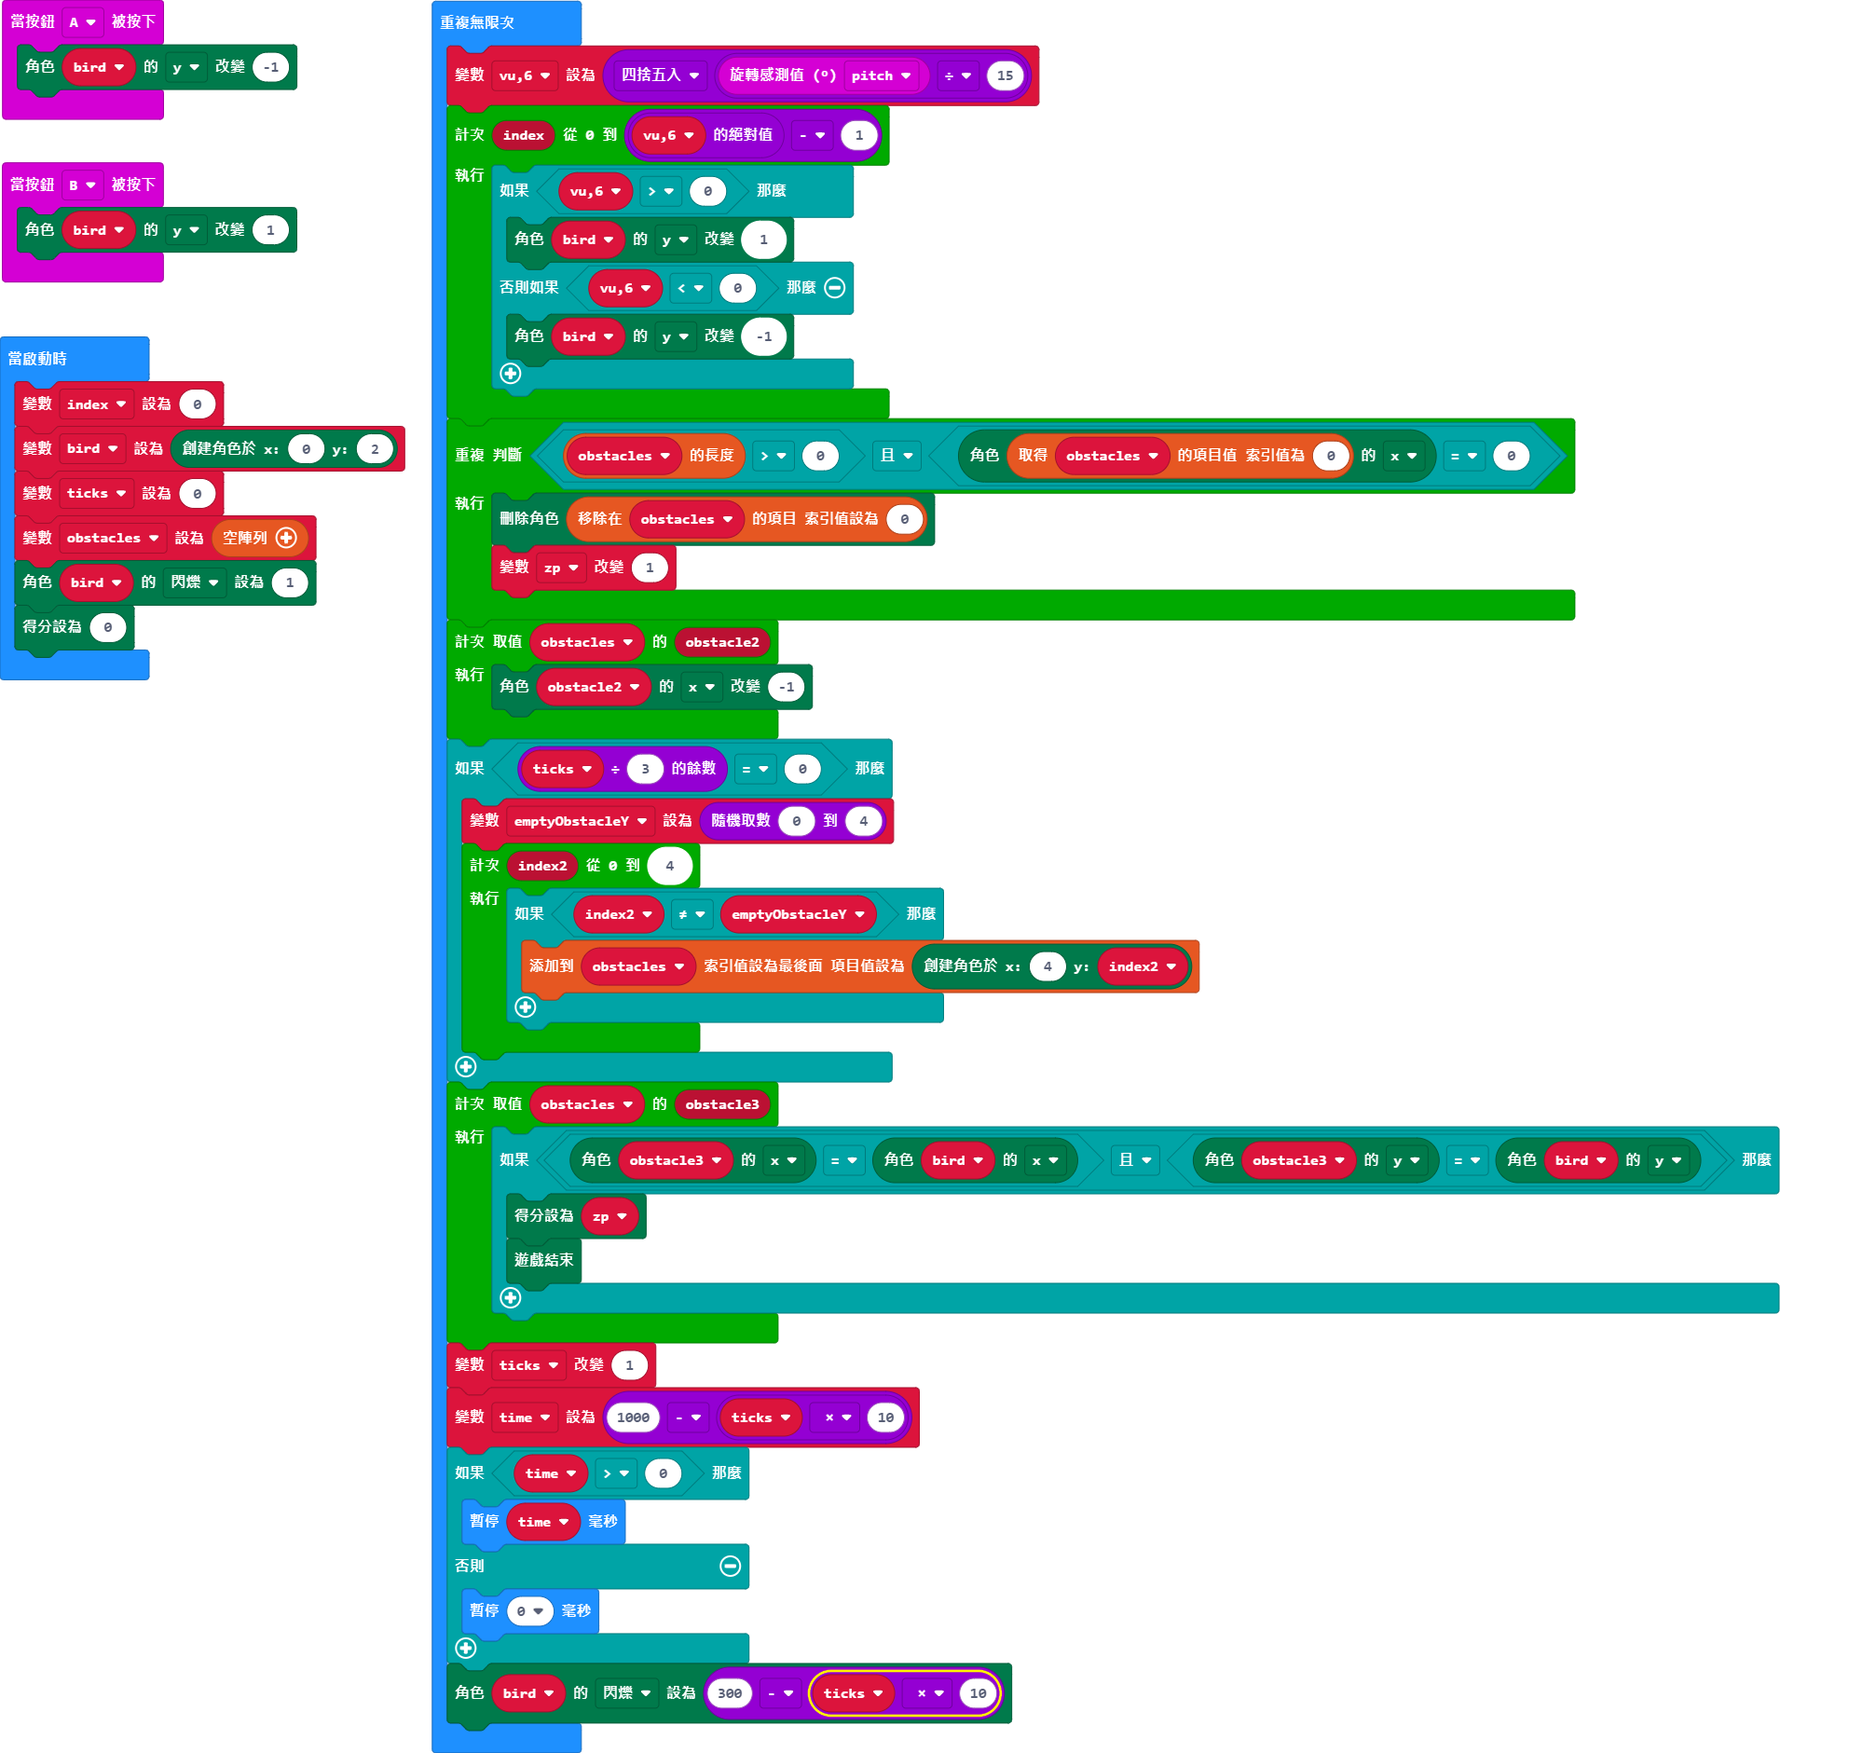
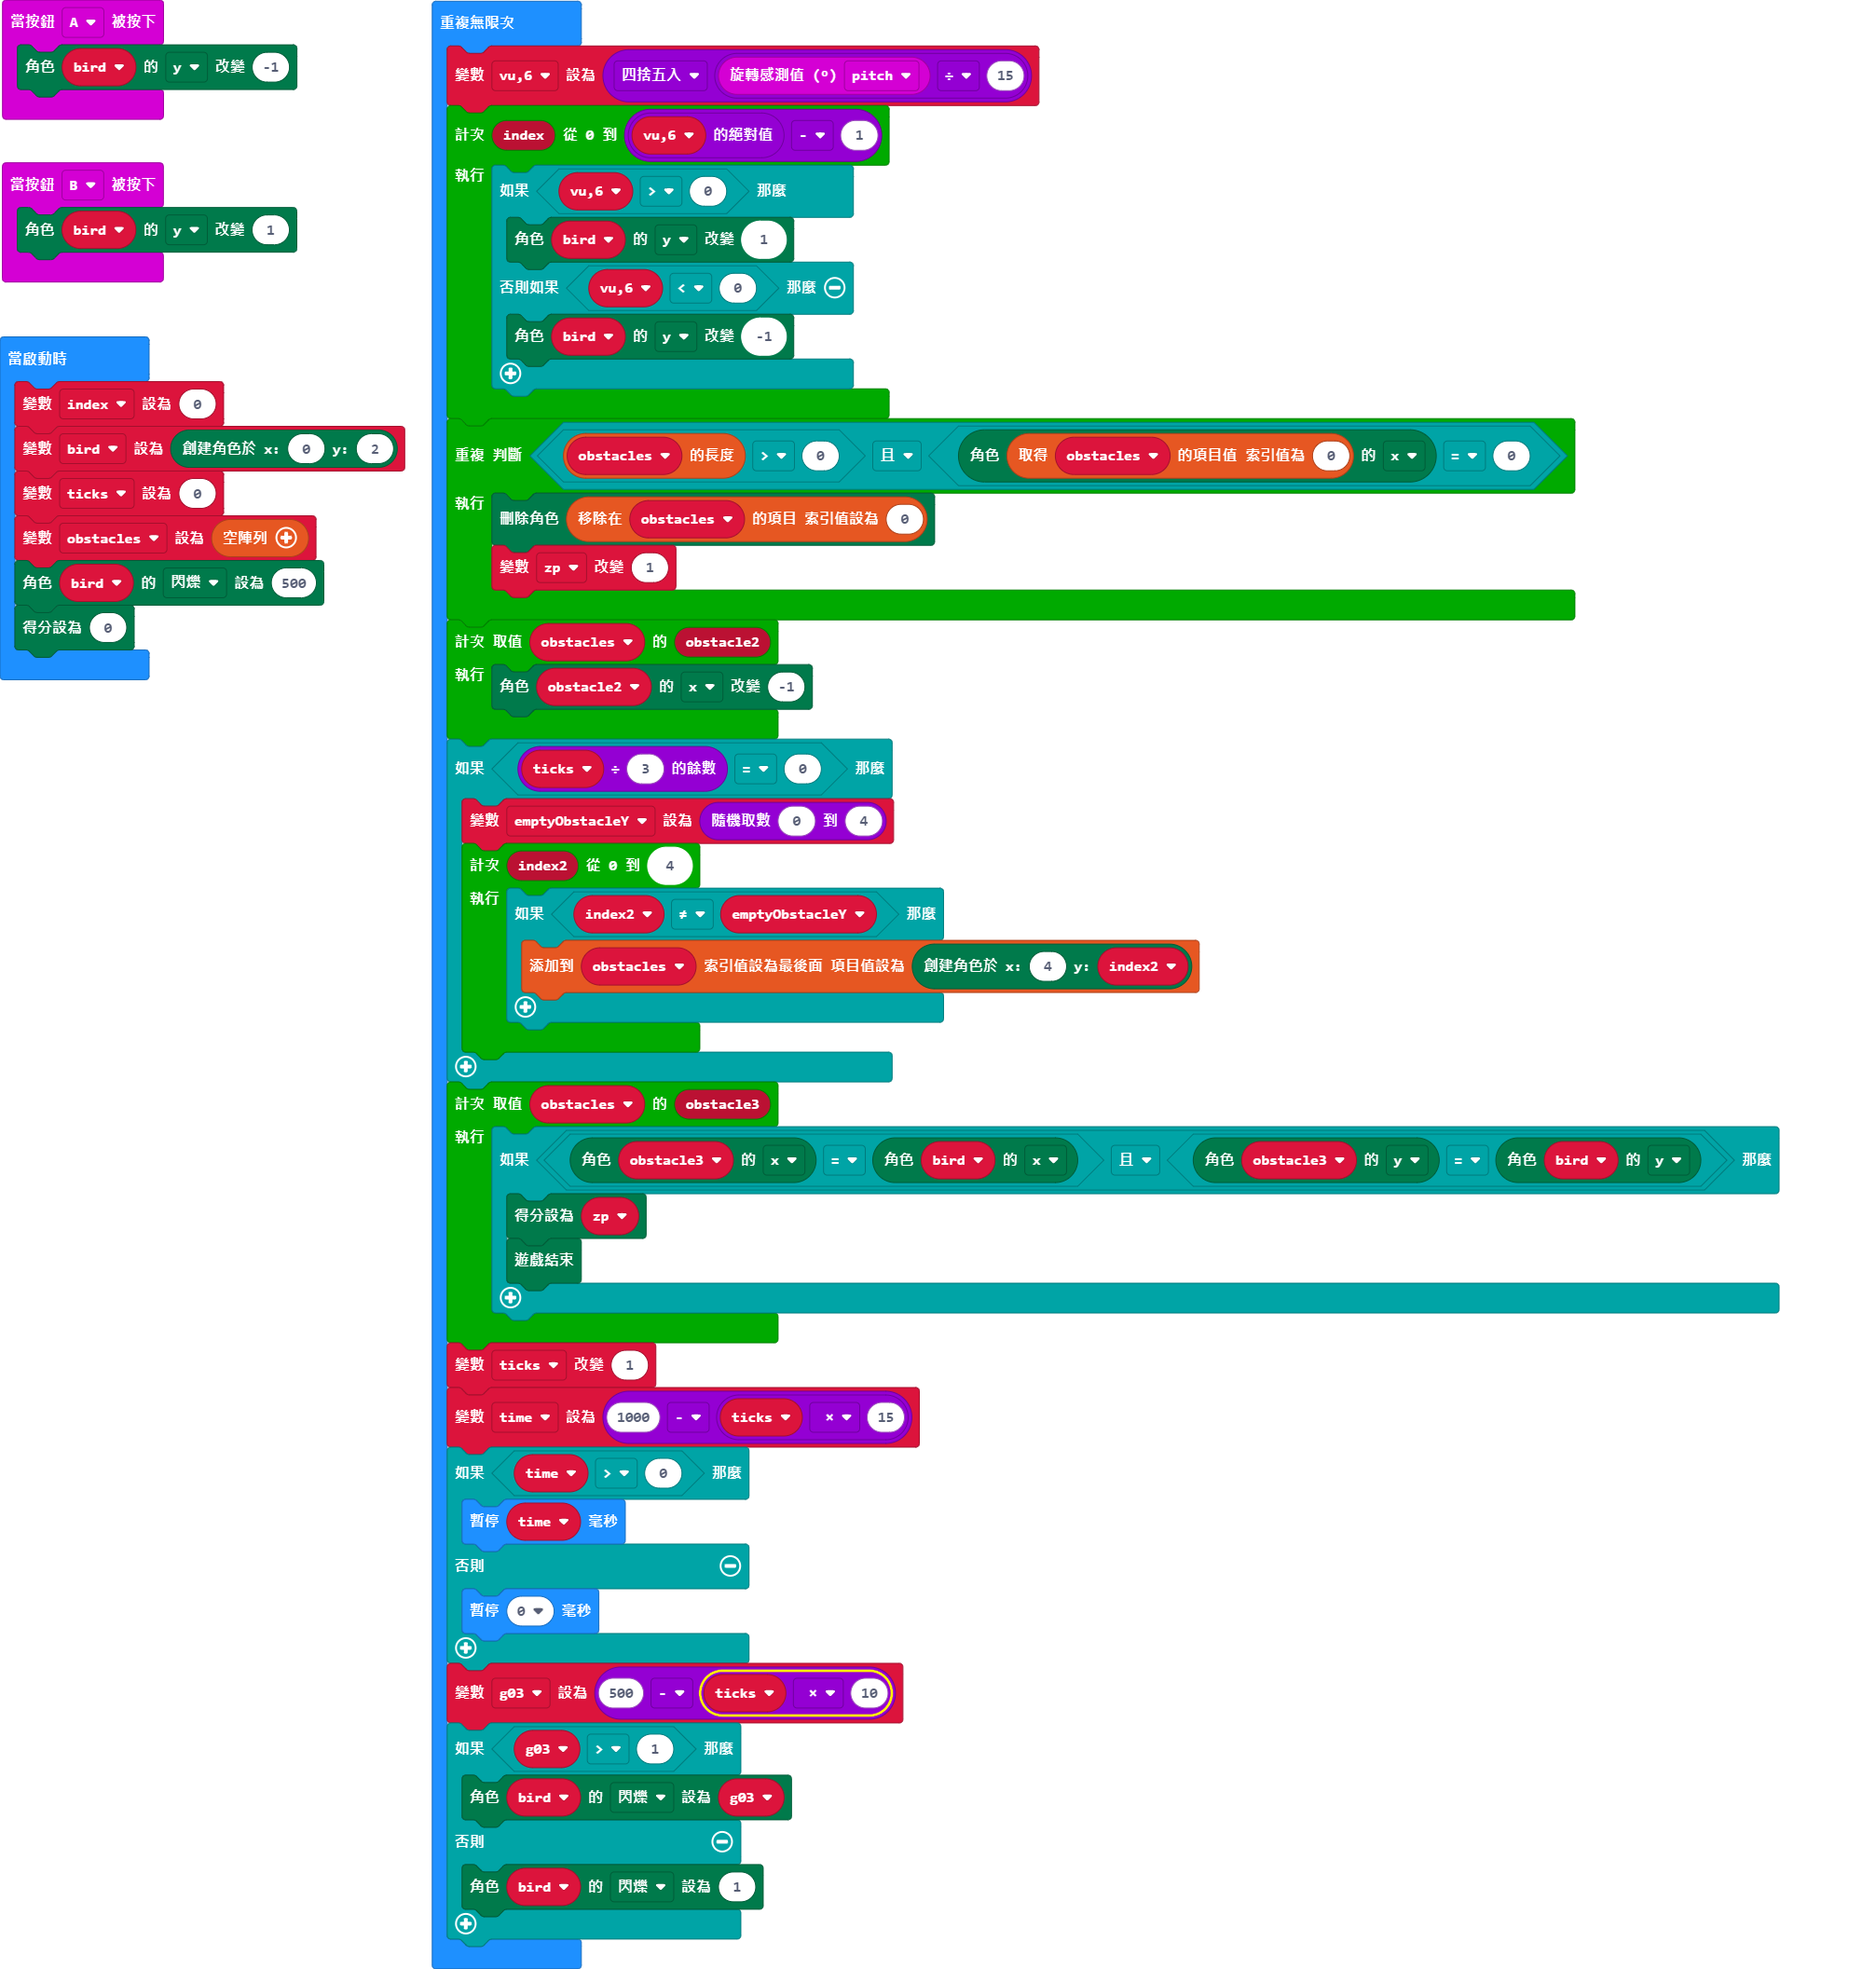
更新 main.ts, main.blocks

Changed region(s): [[0.2156, 0.0, 0.9548, 0.9867], [0.0, 0.0, 0.2156, 0.4009]]

diff --git a/main.ts b/main.ts
@@ -4,6 +4,7 @@ input.onButtonPressed(Button.A, function () {
 input.onButtonPressed(Button.B, function () {
     bird.change(LedSpriteProperty.Y, 1)
 })
+let g03 = 0
 let time = 0
 let emptyObstacleY = 0
 let zp = 0
@@ -13,7 +14,7 @@ let index = 0
 bird = game.createSprite(0, 2)
 let ticks = 0
 let obstacles: game.LedSprite[] = []
-bird.set(LedSpriteProperty.Blink, 1)
+bird.set(LedSpriteProperty.Blink, 500)
 game.setScore(0)
 basic.forever(function () {
     vu6 = Math.round(input.rotation(Rotation.Pitch) / 15)
@@ -46,11 +47,16 @@ basic.forever(function () {
         }
     }
     ticks += 1
-    time = 1000 - ticks * 10
+    time = 1000 - ticks * 15
     if (time > 0) {
         basic.pause(time)
     } else {
         basic.pause(0)
     }
-    bird.set(LedSpriteProperty.Blink, 300 - ticks * 10)
+    g03 = 500 - ticks * 10
+    if (g03 > 1) {
+        bird.set(LedSpriteProperty.Blink, g03)
+    } else {
+        bird.set(LedSpriteProperty.Blink, 1)
+    }
 })
